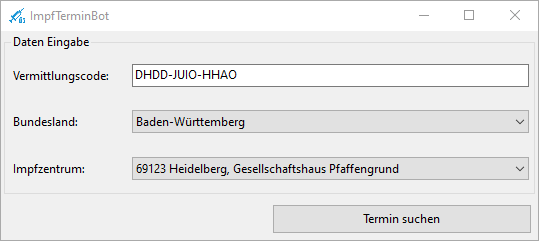
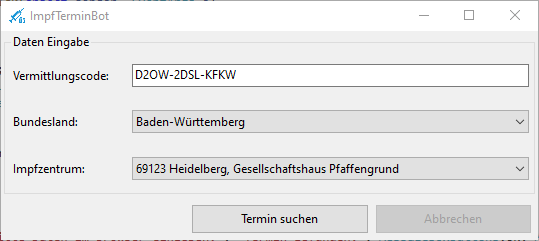
Update der Dokumentation

diff --git a/README.md b/README.md
@@ -1,6 +1,6 @@
 # ImpfTerminBot
 
-Der ImpfTerminBot erleichtert die teils langwierige Terminsuche für eine Corona-Schutzimpung über das Portal [https://www.impfterminservice.de](https://www.impfterminservice.de). Der ImpfTerminBot steuert hierbei den Browser vollautomatisch, so dass der Benutzer nicht am PC warten muss um den nächsten Schritt auf der Seite ausführen zu können. Sobald ein Termin gefunden wurde meldet sich der Bot mit einem akustischen Signal. Hier beendet der ImpfTerminBot seine Arbeit und der Benutzer übernimmt die Dateneingabe.
+Der ImpfTerminBot erleichtert die teils langwierige Terminsuche für eine Corona-Schutzimpung über das Portal [https://www.impfterminservice.de](https://www.impfterminservice.de). Der ImpfTerminBot steuert hierbei den Browser vollautomatisch, so dass der Benutzer nicht am PC warten muss um den nächsten Schritt auf der Seite ausführen zu können. Sobald ein Termin gefunden wurde meldet sich der Bot mit einem akustischen Signal. Hier beendet der ImpfTerminBot seine Arbeit und der Benutzer übernimmt die Dateneingabe. 
 
 ## Download 
 [ImpfTerminBot.msi](https://github.com/kyi87/ImpfTerminBot/releases/download/Latest/ImpfTerminBot.msi)
@@ -10,31 +10,43 @@ Der ImpfTerminBot erleichtert die teils langwierige Terminsuche für eine Corona
 Die Datei ImpfTerminBot.msi ausführen und den gewünschten Installations-Pfad wählen. Falls nicht vorhanden muss zuerst die .Net Runtime installiert werden ([.NetCore 3.1 Desktop Runtime x64](https://dotnet.microsoft.com/download/dotnet/thank-you/runtime-desktop-3.1.14-windows-x64-installer)). Nach der Installation wird automatisch eine Desktopverknüpfung erstellt.
 
 ### Starten der Terminsuche
-Um die Terminsuche zu starten muss die Desktopverknüpfung "ImpfTerminBot" ausgeführt werden. Anschließend müssen die benötigten Daten eingetragen werden:
+Um die Terminsuche zu starten muss die Desktopverknüpfung "ImpfTerminBot" ausgeführt werden. 
+
+![DatenEingabeLeer](doc/DatenEingabe_leer.png)
+
+Anschließend müssen die benötigten Daten eingetragen werden:
 
 -  Vermittlungscode
--  Bundesland (Bisher gibt es nur für Baden-Württemberg Einträge.)
+-  Bundesland
 -  Impfzentrum 
 
-Nach der Dateneingabe muss "Termin suchen" geklickt werden. Der ImpfTerminBot startet dann automatisiert die Termin suche.
-
 ![DatenEingabe](doc/DatenEingabe.png)
+
+Nach der Dateneingabe muss "Termin suchen" geklickt werden. Der ImpfTerminBot startet dann automatisiert die Terminsuche.
+
+### Abbrechen der Terminsuche
+
+Beim Klick auf "Abbrechen" wird die aktuelle Suche gestoppt und der Browser wird geschlossen.
 
 ### Termin gefunden
 Der ImpfTerminBot meldet sich akustisch sobald ein Termin gefunden wurde. Die Daten müssen dann innerhalb von 10 Minuten eingegeben werden, sonst verfällt die Terminreservierung. 
 
-### Kein Termin gefunden
-Der Vermittlungscode muss gültig sein und zum Bundsesland und zum Impfzentrum passen. Ist das nicht der Fall wird eine Fehlermeldung angezeigt.
+### Mögliche Fehlermeldungen
+
+| Fehlermeldung                                                | Ursache                                                      |
+| ------------------------------------------------------------ | ------------------------------------------------------------ |
+| Ungültiger Vermittlungscode                                  | Der Vermittlungscode muss gültig sein und zum Bundesland und zum Impfzentrum passen. |
+| Anspruch abgelaufen. Vermittlungscode ist nicht mehr gültig. | Der Vermittlungscode wurde bereits benutzt und ist somit nicht mehr einsetzbar. |
 
 ## Vorraussetzungen
-- Nur unter Windows (10) lauffähig
-- Google Chrome muss installiert sein (Momentan wird nur Google Chrome unterstützt)
-- Es muss ein gültiger Vermittlungscode vorhanden sein
-- [.NetCore 3.1 Desktop Runtime x64](https://dotnet.microsoft.com/download/dotnet/thank-you/runtime-desktop-3.1.14-windows-x64-installer)
+- **Betriebssystem:** Nur unter Windows (10) lauffähig
+- **Browser:** Google Chrome muss installiert sein (momentan wird nur Google Chrome unterstützt)
+- **Laufzeitumgebung:** [.NetCore 3.1 Desktop Runtime x64](https://dotnet.microsoft.com/download/dotnet/thank-you/runtime-desktop-3.1.14-windows-x64-installer)
+- **Vermittlungscode:** Es muss ein gültiger Vermittlungscode vorhanden sein
 
 ## TODO
-- [ ] data.json für andere Bundesländer / Impfzentren erweitern
-- [ ] Unsterstützung für weitere Browser
+- [x] data.json für andere Bundesländer / Impfzentren erweitern
+- [ ] Unterstützung für weitere Browser
 
 ## Unterstützung
 <a href="https://www.buymeacoffee.com/kyi87" target="_blank"><img src="https://cdn.buymeacoffee.com/buttons/default-orange.png" alt="Buy Me A Coffee" height="41" width="174"></a>
